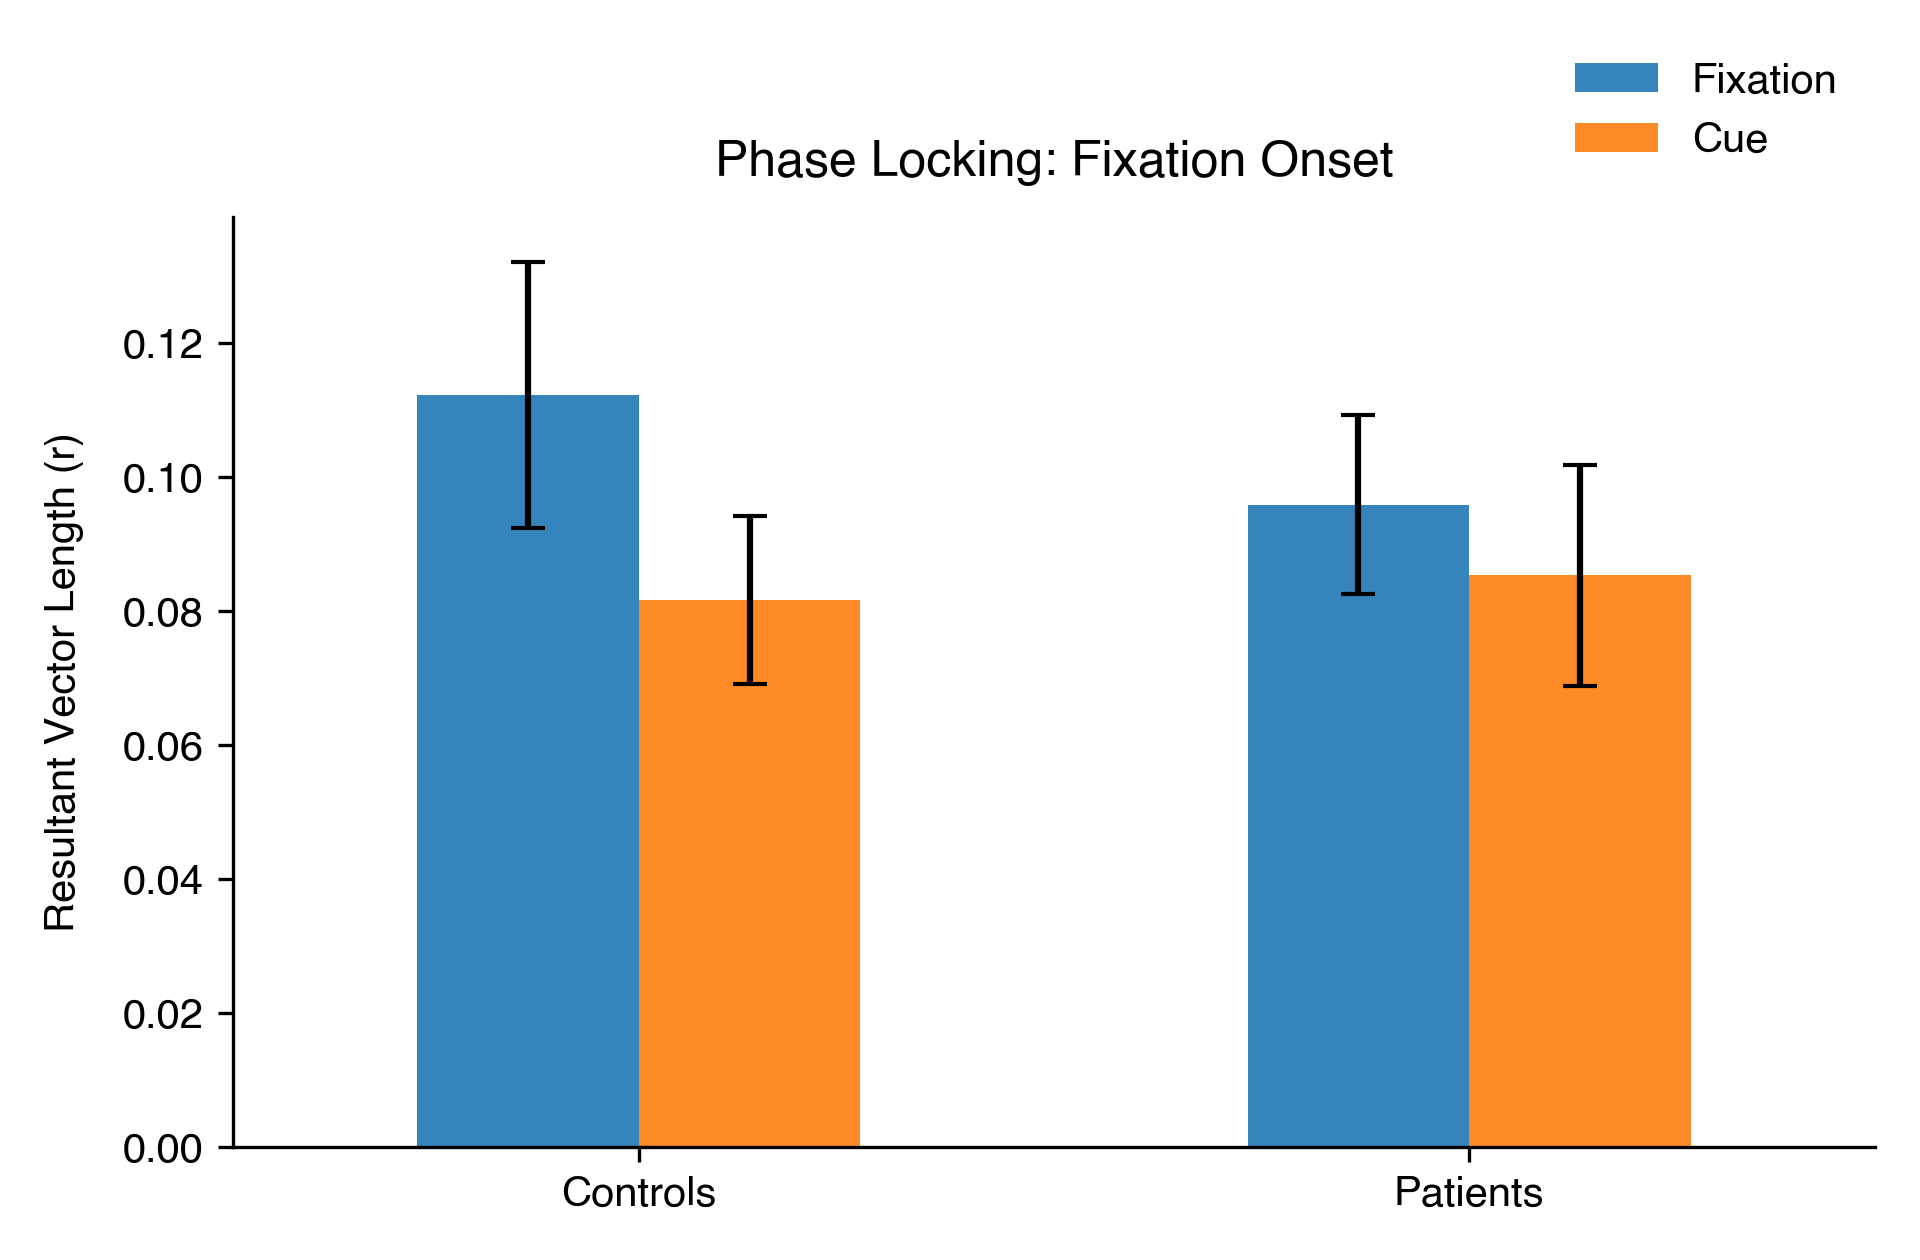
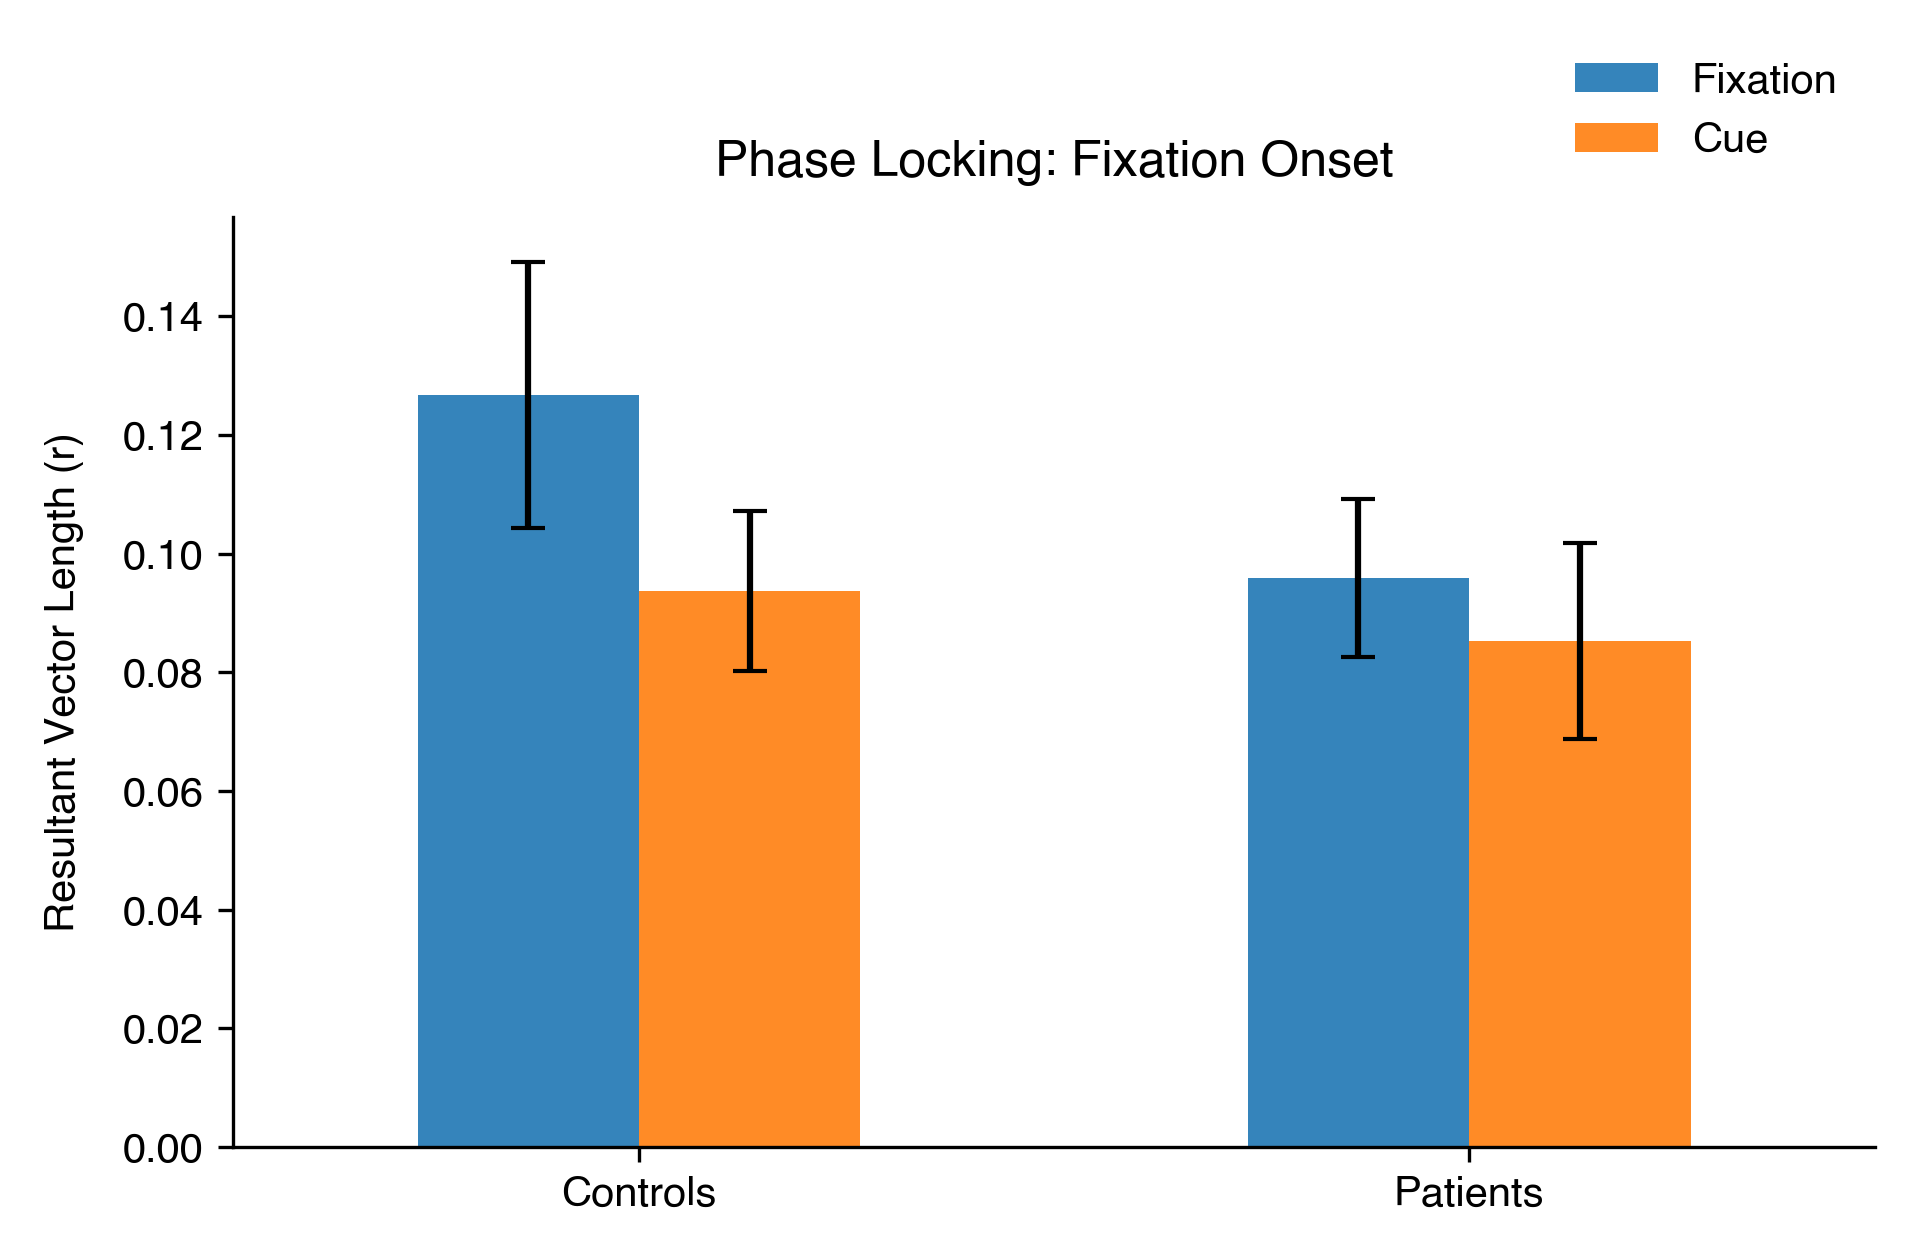
stats edits

diff --git a/results_analysis.py b/results_analysis.py
@@ -62,6 +62,8 @@ def window_metric_dfs():
     return {
         "saccade_frequency": make_df("rates"),
         "saccade_duration_ms": make_df("durations"),
+        "mean_saccade_speed": make_df("mean_speeds"),
+        "max_saccade_speed": make_df("max_speeds"),
         "fixation_frequency": make_df("fixation_rates"),
         "fixation_duration_ms": make_df("fixation_durations"),
     }
@@ -189,16 +191,56 @@ def main():
 
     analyses = {}
 
-    for k, wide in window_metric_dfs().items():
-        analyses[k] = split_plot_anova_equivalent(wide)
-        analyses[k]["wide"] = wide
-
+    # Gather wide-form dataframes from the windowed metrics and phase metrics
+    window_wides = window_metric_dfs()
     ph_start = phase_metric_df("start")
     ph_end = phase_metric_df("end")
-    analyses["phase_locking_saccade_onset"] = split_plot_anova_equivalent(ph_start)
-    analyses["phase_locking_saccade_onset"]["wide"] = ph_start
-    analyses["phase_locking_fixation_onset"] = split_plot_anova_equivalent(ph_end)
-    analyses["phase_locking_fixation_onset"]["wide"] = ph_end
+
+    # Helper to get subject sets by group from a wide dataframe
+    def subjects_by_group(df):
+        return {
+            "control": set(df[df["group"] == "control"]["subject"].tolist()),
+            "patient": set(df[df["group"] == "patient"]["subject"].tolist()),
+        }
+
+    # Non-phase subjects (union across all non-phase metrics)
+    nonphase_ctrl = set()
+    nonphase_pat = set()
+    for wide in window_wides.values():
+        s = subjects_by_group(wide)
+        nonphase_ctrl |= s["control"]
+        nonphase_pat |= s["patient"]
+
+    # Phase subjects (union across start/end)
+    phase_ctrl = subjects_by_group(ph_start)["control"] | subjects_by_group(ph_end)["control"]
+    phase_pat = subjects_by_group(ph_start)["patient"] | subjects_by_group(ph_end)["patient"]
+
+    # Intersection: only keep subjects present in both pipelines
+    common_ctrl = nonphase_ctrl & phase_ctrl
+    common_pat = nonphase_pat & phase_pat
+
+    def filter_common(df):
+        return df[
+            (
+                (df["group"] == "control") & df["subject"].isin(sorted(common_ctrl))
+            )
+            | (
+                (df["group"] == "patient") & df["subject"].isin(sorted(common_pat))
+            )
+        ].reset_index(drop=True)
+
+    # Apply filtering and run the split-plot ANOVA equivalent on the filtered sets
+    for k, wide in window_wides.items():
+        filtered = filter_common(wide)
+        analyses[k] = split_plot_anova_equivalent(filtered)
+        analyses[k]["wide"] = filtered
+
+    ph_start_f = filter_common(ph_start)
+    ph_end_f = filter_common(ph_end)
+    analyses["phase_locking_saccade_onset"] = split_plot_anova_equivalent(ph_start_f)
+    analyses["phase_locking_saccade_onset"]["wide"] = ph_start_f
+    analyses["phase_locking_fixation_onset"] = split_plot_anova_equivalent(ph_end_f)
+    analyses["phase_locking_fixation_onset"]["wide"] = ph_end_f
 
     print("OVERALL")
     for k, v in overall.items():
@@ -208,6 +250,8 @@ def main():
     plot_info = {
         "saccade_frequency": ("Saccade Frequency", "Frequency (Hz)", "saccade_frequency_bar.png"),
         "saccade_duration_ms": ("Saccade Duration", "Duration (ms)", "saccade_duration_bar.png"),
+        "mean_saccade_speed": ("Mean Saccade Speed", "Speed (deg/s)", "mean_saccade_speed_bar.png"),
+        "max_saccade_speed": ("Maximum Saccade Speed", "Speed (deg/s)", "max_saccade_speed_bar.png"),
         "fixation_frequency": ("Fixation Frequency", "Frequency (Hz)", "fixation_frequency_bar.png"),
         "fixation_duration_ms": ("Fixation Duration", "Duration (ms)", "fixation_duration_bar.png"),
         "phase_locking_saccade_onset": ("Phase Locking: Saccade Onset", "Resultant Vector Length (r)", "phase_saccade_onset_bar.png"),
